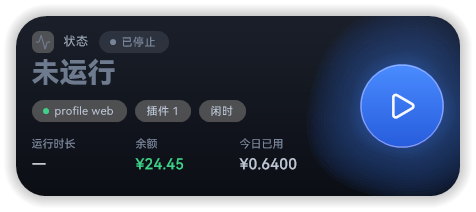
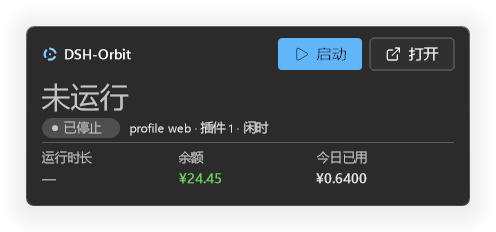
docs: 换用 Fluent 版截图，补界面规范与单测说明

diff --git a/README.md b/README.md
@@ -10,6 +10,7 @@
 [![AIGC](https://img.shields.io/badge/code-AI--generated-8CB8FF.svg)](AGENTS.md)
 [![Platform](https://img.shields.io/badge/platform-Windows%2010%2F11-7AAAFF.svg)](#下载)
 [![.NET](https://img.shields.io/badge/.NET-10-512BD4.svg)](https://dotnet.microsoft.com)
+[![Design](https://img.shields.io/badge/design-WinUI%203%20%C3%97%20Material%203-7AAAFF.svg)](docs/design-fluent.md)
 
 </div>
 
@@ -19,25 +20,41 @@
 
 - 卡片显示端口、插件数、运行时长、内存/CPU、余额和今日已用；
 - 点地址在自带的浏览器窗口里打开 DSH，而不是跳系统浏览器；
-- 托盘菜单负责启动/停止/重启、层级、贴边隐藏、开机启动。
+- 托盘菜单负责启动/停止/重启、层级、贴边隐藏、开机启动；
+- 界面按 **WinUI 3（Fluent）** 规范重画，融合少量 **Material 3**，跟随系统浅色/深色与系统强调色。
 
 ## 截图
 
-**Web 外壳**（多标签页、地址栏、macOS 风格红绿灯）：
+**Web 外壳**（WinUI 3 式标题栏、多标签、macOS 风格红绿灯）：
 
 <img src="docs/shell.png" width="860"/>
 
-**新标签页**（原生 C# 绘制，不是网页）：
+**浅色主题**（同一套界面跟随系统深浅色）：
+
+<img src="docs/shell-light.png" width="860"/>
+
+**新标签页**（原生 C# 绘制，不是网页；Fluent + Material 3 磁贴）：
 
 <img src="docs/shell-start.png" width="860"/>
 
-**挂件卡片**：
+**挂件卡片**（深色 / 浅色）：
 
-<img src="docs/preview-running.png" width="420"/>
+<img src="docs/preview-running.png" width="420"/> <img src="docs/preview-running-light.png" width="420"/>
 
 **托盘菜单**（运行中第一格是「打开」；停止时会换成可点的「启动」）：
 
-<a><img src="docs/menu.png" width="240"/></a> <img src="docs/menu-stopped.png" width="240"/>
+<img src="docs/menu.png" width="240"/> <img src="docs/menu-stopped.png" width="240"/>
+
+## 界面
+
+界面语言取自 [WinUI 3](https://learn.microsoft.com/windows/apps/winui/winui3)（Fluent）与 [Material 3](https://m3.material.io/)：
+
+- 圆角只有四档：控件 `4`、卡片/浮出层 `8`、磁贴 `16`、药丸 `999`；
+- 版式走 WinUI 的 `Caption 12 / Body 14 / Subtitle 20 / Title 28` 阶梯，字体 `Segoe UI Variable`；
+- 配色跟随系统深浅色与**系统强调色**，菜单「外观」里可强制浅色或深色；
+- 悬停/按下用 8%/10% 状态层（M3），浮层用抬升阴影，磁贴悬停抬升一级。
+
+全部令牌与绘制原语集中在 `Fluent.cs`，完整规范见 [docs/design-fluent.md](docs/design-fluent.md)。
 
 ## 功能
 
@@ -58,6 +75,8 @@
 - 打开 / 停止 / 重启
 - 置底 / 置顶 / 普通
 - 开机启动三态：停用 / 启用（只起挂件）/ 全自动（连 `dsh web` 一起拉起）
+- 外观三态：跟随系统 / 浅色 / 深色
+- 键盘操作：↑↓ 移动、Enter 触发、Esc 关闭
 - 锁定穿透、贴边隐藏、外壳关闭行为、复制登录地址、打开日志
 
 ## 下载
@@ -110,18 +129,24 @@ dotnet build -c Release            # 编译
 .\build.ps1                        # 产出 dist\DSH-Orbit.exe 和 dist-lite\DSH-Orbit.exe
 ```
 
+单元测试（纯逻辑：SVG 路径解析、颜色/缓动、余额时段、登录链接、菜单状态）：
+
+```powershell
+dotnet test tests/Unit/Unit.csproj -c Release
+```
+
 冒烟测试（会自动建 `~/.dsh/profiles/widgettest` 并起一个隔离实例）：
 
 ```powershell
 dotnet run --project tests/Harness -c Release
 ```
 
-生成图标与预览图：
+生成图标与截图（`Render` 会把每个界面渲成浅色/深色两套）：
 
 ```powershell
 dotnet run --project tools/IconGen -c Release -- .
-dotnet run --project tests/Render -c Release -- docs
-dotnet run --project tests/Render -c Release -- docs --icons
+dotnet run --project tests/Render -c Release -- artifacts/gallery
+dotnet run --project tests/Render -c Release -- artifacts/gallery --only menu
 ```
 
 ## 项目结构
@@ -129,16 +154,22 @@ dotnet run --project tests/Render -c Release -- docs --icons
 ```
 DshOrbit.csproj        主工程（net10.0-windows, WinForms, 单文件发布）
 Program.cs             入口：单实例、命令行开关
+Fluent.cs              设计令牌与绘制原语（WinUI 3 × Material 3）
+FluentControls.cs      Fluent 按钮 / 输入框（对话框用）
 WidgetForm.cs          挂件卡片（分层窗口 + 自绘）
 WidgetApp.cs           状态机：探测、启停、托盘、外壳、管道命令
 WebShell.cs            WebView2 外壳（自绘标题栏 + 多标签）
 StartPage.cs           新标签页（原生绘制）
 TrayMenuForm.cs        托盘右键菜单
+AddEngineDialog.cs     添加搜索引擎对话框
 DshServices.cs         dsh 发现 / 启动 / 插件统计
 Balance.cs             DeepSeek 余额与今日用量
 LoopbackAuthServer.cs  本地登录中转
 Icons.cs / SvgPath.cs / LucideData.cs / OrbitMark.cs / DshMark.cs   图标与标志
-tests/                 冒烟测试与离屏渲染
+docs/design-fluent.md  界面规范（令牌、版式、每个界面的规格）
+tests/Unit/            单元测试（xUnit）
+tests/Harness/         冒烟测试（起隔离 dsh 实例）
+tests/Render/          离屏渲染，产出浅/深两套截图
 tools/                 图标生成、Lucide 数据抓取
 ```
 
@@ -163,7 +194,9 @@ tools/                 图标生成、Lucide 数据抓取
 - **[FlClash](https://github.com/chen08209/FlClash)** — 交互与视觉参考（卡片式布局、贴边隐藏、托盘菜单的组织方式）。
   **未使用其任何代码**（FlClash 为 GPL-3.0，本项目为 MIT）。
 - **[.NET](https://dotnet.microsoft.com)** / WinForms — 运行时与 UI 框架。
-- **HarmonyOS Sans SC** — 界面字体；仅在系统已安装时使用，仓库不打包字体文件。
+- **[WinUI 3 设计规范](https://learn.microsoft.com/windows/apps/winui/winui3)**（MIT 文档）— 几何、版式、间距、配色语言的依据。
+- **[Material 3](https://m3.material.io/)**（Apache-2.0）— 状态层、抬升、形状阶梯的参考。
+- **Segoe UI Variable** — 界面字体（Windows 11 系统自带，仓库不打包字体文件）。
 
 ## License
 
